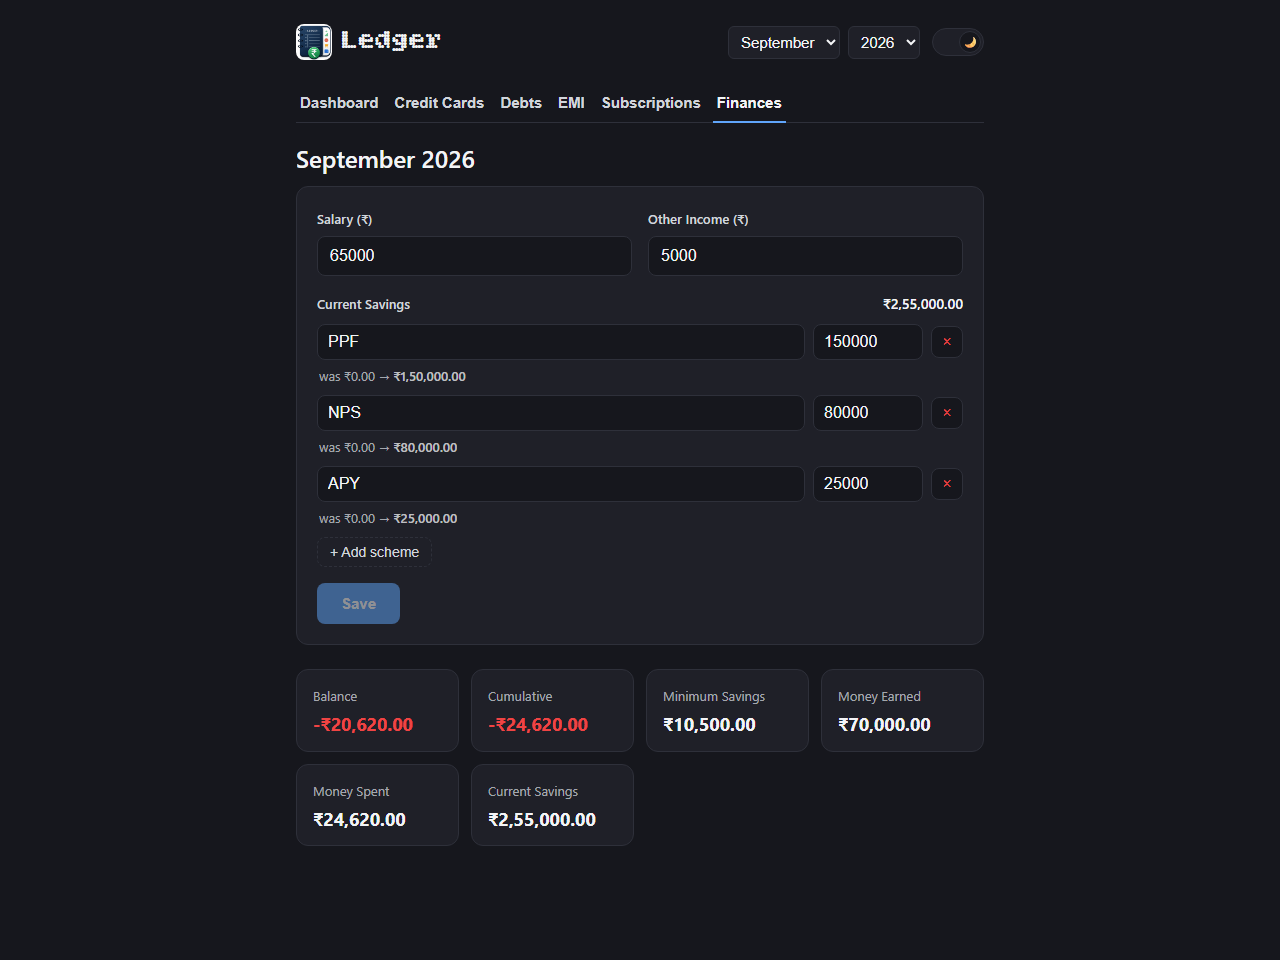
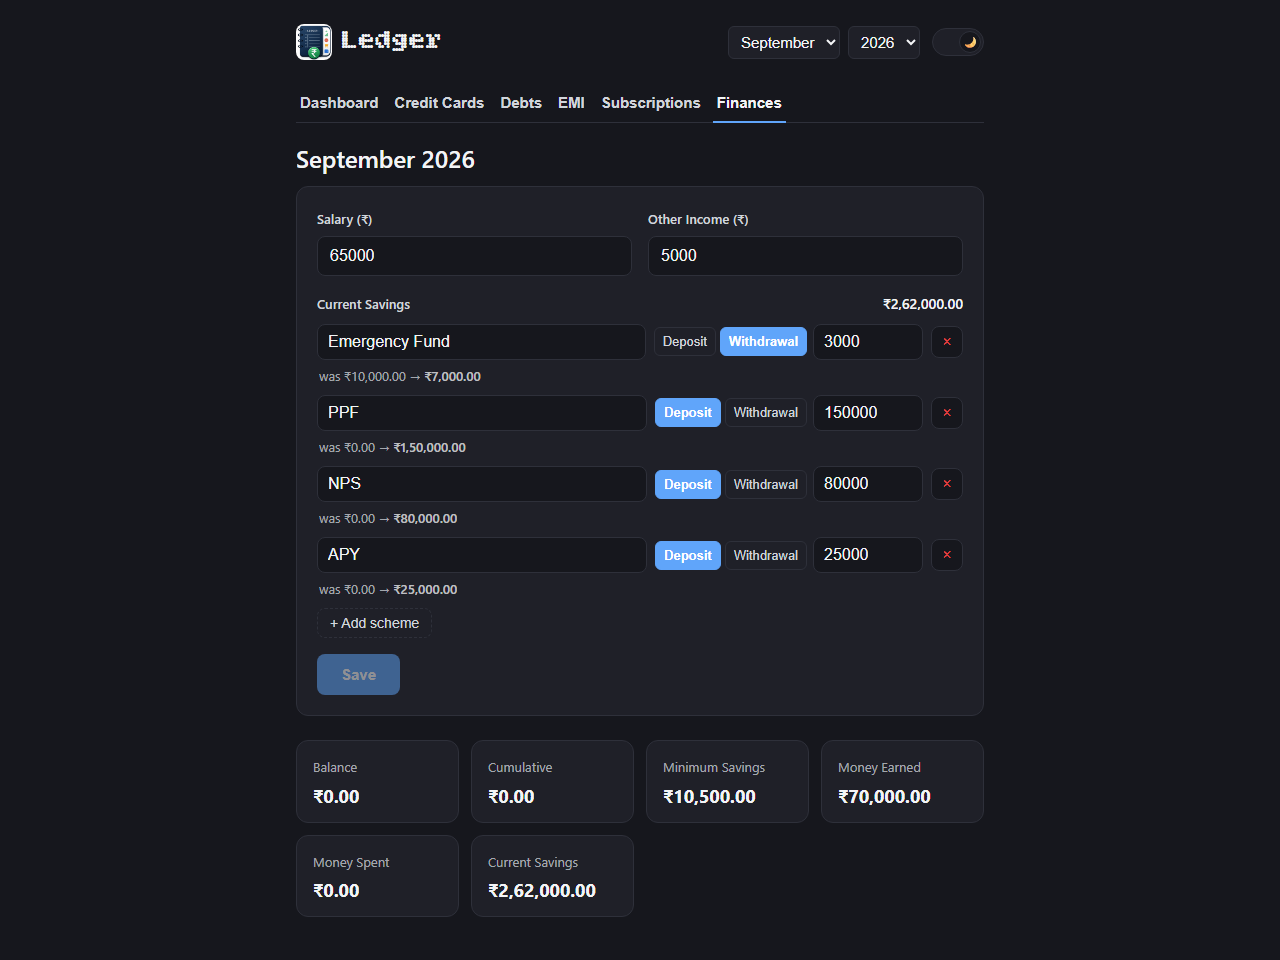
docs: replace real-data Dashboard screenshots with demo data; catch up all docs/screenshots with the sign-toggle and EMI scale features
The Dashboard screenshots regenerated earlier this session used real
production data (net worth, real subscription names) - this repo is
public, and GitHub visibility is repo-wide, not per-branch, so that
was live on a public repo, not confined to a private branch as
implied at the time. Replaced with the same kind of fictional demo
data every other screenshot in this doc already used (Alex/Sam,
Visa Rewards/Amex Gold, Car Loan/Home Loan, etc.) via an isolated
scratch-data worktree, never the real one.

While at it: Debts and Finances screenshots were still showing the
old placeholder-based amount input (no sign toggle at all), and the
EMI screenshot's two demo loans had interest rates set but predated
the foreclosurePayoff feature, so its 'Foreclosure payoff' line never
rendered - all three regenerated to show what actually ships now.
README's savings-delta description still said 'you type a +/- change'
- updated to describe the toggle, plus a new Notes/gotchas entry
explaining why (a phone's numeric keypad has no '-' key). ARCHITECTURE.md
now mentions SignedAmountInput alongside the other shared components.

diff --git a/README.md b/README.md
@@ -260,15 +260,18 @@ auto-advances forward to the next real cycle, never silently going stale:
   - **Current Savings** — named scheme balances (PPF, NPS, APY, etc.),
     summed automatically into a total. Entry is delta-based, not absolute:
     each scheme shows its last known balance (carried forward from
-    whichever month it was last touched) and you type a **+/− change** —
-    a deposit or a withdrawal — and the app computes and stores the new
-    absolute balance for you. For a scheme with no prior balance yet, the
-    first amount you type simply becomes its starting balance (baseline
-    zero). The underlying data is still a plain absolute balance per
-    scheme per month — only entry is delta-based — so a scheme's real
-    figure can always be corrected by typing whatever delta reconciles it
-    to your actual passbook/statement, rather than drifting permanently out
-    of sync the way a pure running-total ledger would. The set of schemes
+    whichever month it was last touched) and you pick **Deposit** or
+    **Withdrawal** and type the change — the app computes and stores the
+    new absolute balance for you. Sign is a toggle, not something you type,
+    since a phone's numeric keypad has no "-" key at all (see
+    [SignedAmountInput](#notes--gotchas) below). For a scheme with no prior
+    balance yet, the first amount you enter simply becomes its starting
+    balance (baseline zero). The underlying data is still a plain absolute
+    balance per scheme per month — only entry is delta-based — so a
+    scheme's real figure can always be corrected by entering whatever
+    deposit/withdrawal reconciles it to your actual passbook/statement,
+    rather than drifting permanently out of sync the way a pure
+    running-total ledger would. The set of schemes
     isn't fixed — add or remove one freely as your actual savings mix
     changes. Whichever month's breakdown was most recently entered carries
     forward across later months until you update it again, rather than
@@ -830,6 +833,14 @@ and never touch the real `Expenses` folder.
   running from a built `server/dist`." Fixed to check the latter — dev mode
   never serves a stale build no matter what was previously built in the
   same checkout.
+- A phone's numeric/decimal on-screen keyboard has no "-" key at all —
+  `<input type="number">` for a signed amount (Debts, the savings delta
+  above) made entering a negative value flat-out impossible on iOS. Both
+  now use a shared `SignedAmountInput` component: an explicit two-button
+  sign toggle (You owe/Owed to you, Deposit/Withdrawal) plus a
+  magnitude-only field that never needs a minus sign, which also reads
+  more clearly than the old implicit "+/-" prefix convention did, even on
+  desktop.
 
 ## History: retiring Expense Summary.xlsm
 

diff --git a/ARCHITECTURE.md b/ARCHITECTURE.md
@@ -225,7 +225,11 @@ gives every entry.
   (inline edit, swapped in for the row being edited). Shared row-action
   affordances (Edit/Delete/Copy/etc.) go through `OverflowMenu.tsx`, a
   generic `items: {label, onClick, ...}[]` menu, not a bespoke dropdown per
-  tab.
+  tab. A signed amount (Debts, the Finances savings delta) goes through
+  `SignedAmountInput.tsx` rather than a plain `<input type="number">` —
+  splitting sign (an explicit two-button toggle) from magnitude sidesteps a
+  phone's numeric keypad having no "-" key at all, which made a negative
+  value impossible to type on iOS.
 - **CSS**: one file per component, co-located (e.g. `Debts.css` next to
   `Debts.tsx`), imported directly (Vite bundles them into one global
   stylesheet, so anything genuinely shared lives in `shared.css` instead of
